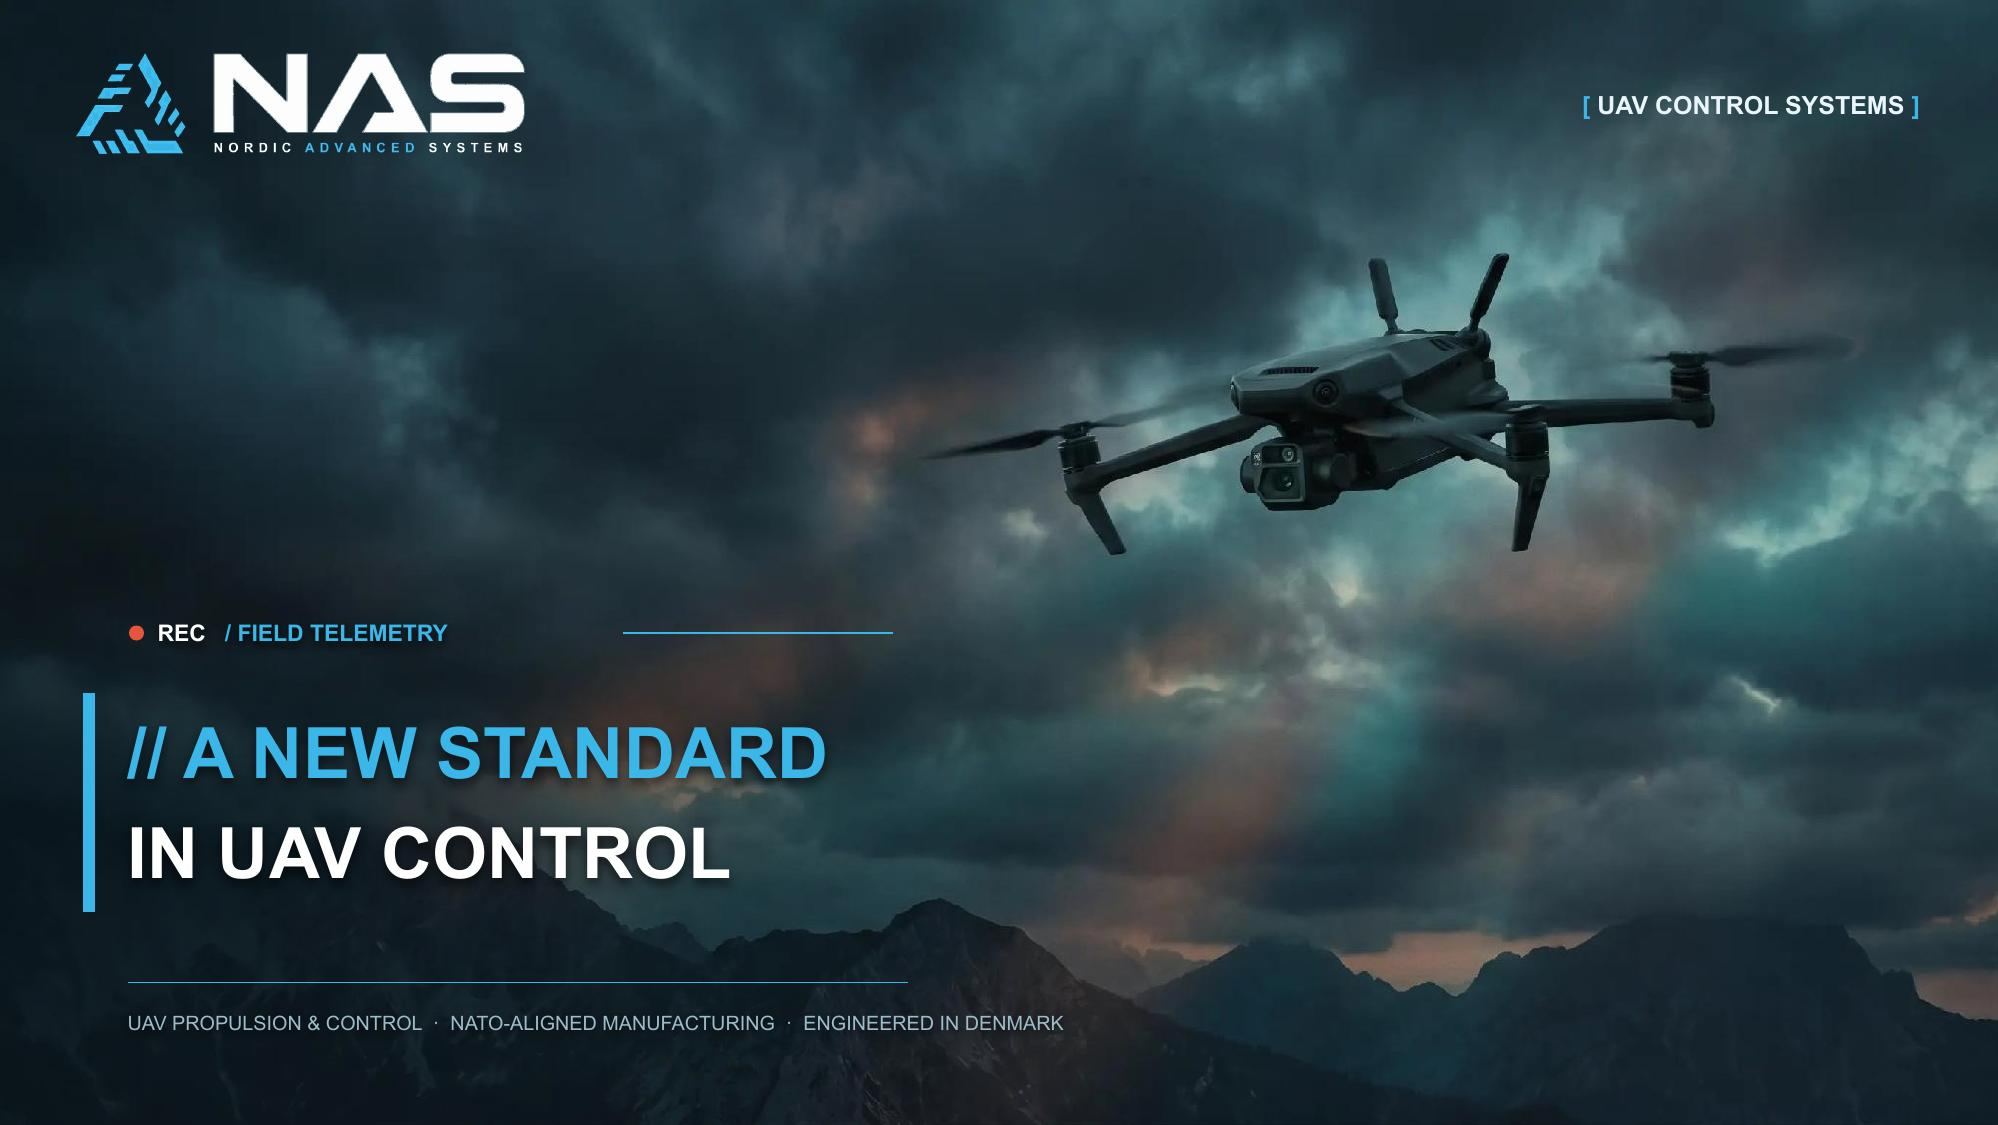
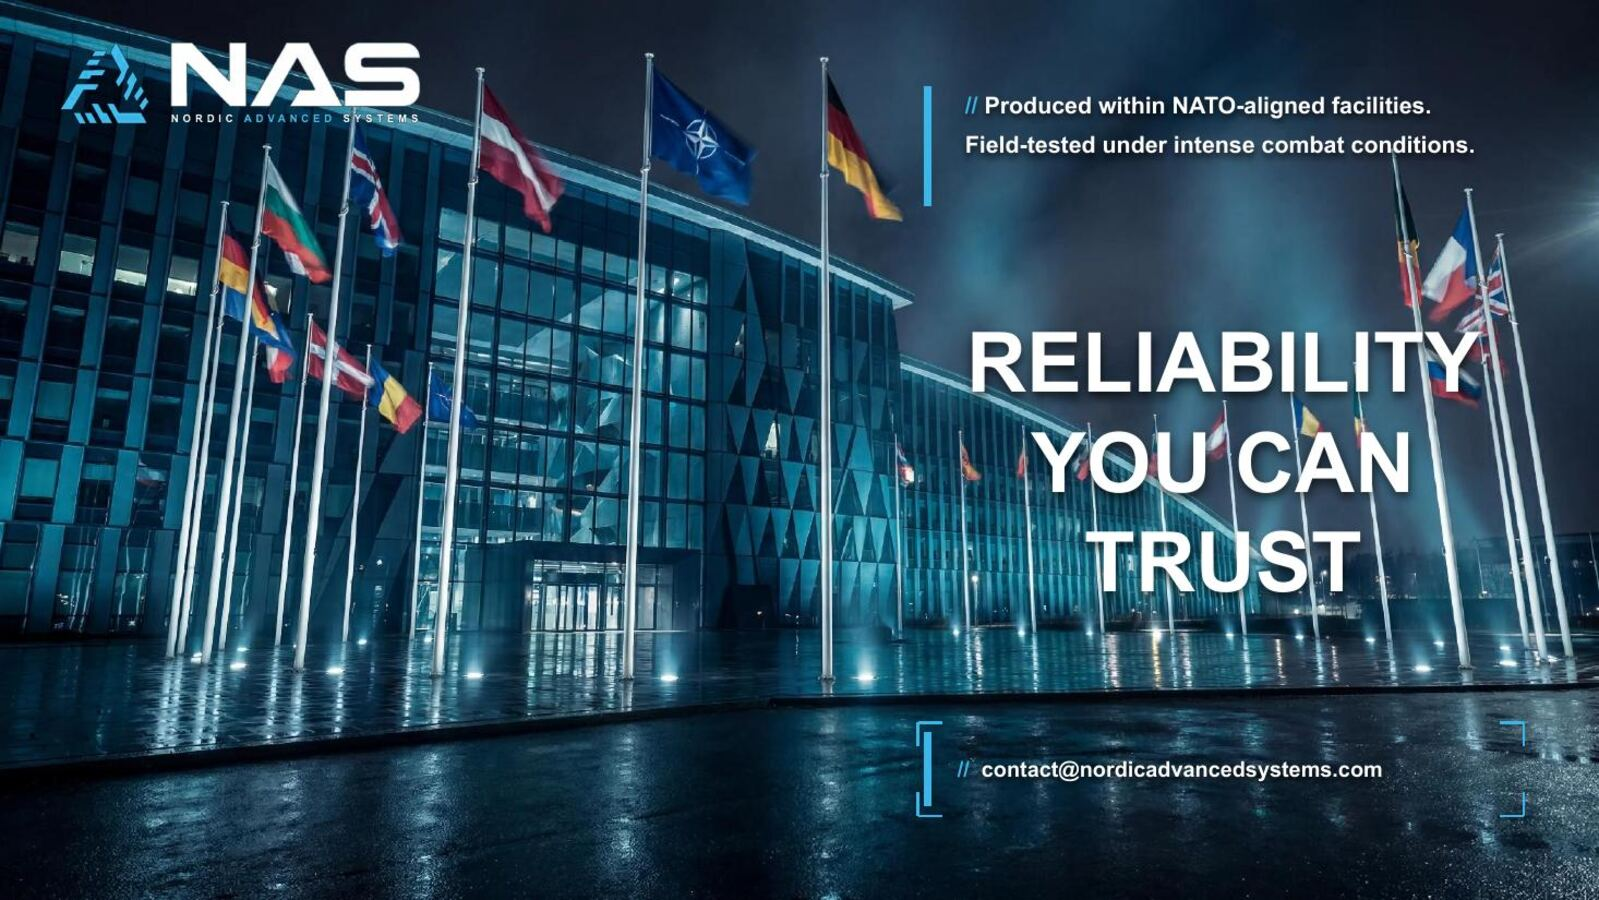
Hero 50/50 layout, scroll-perf fix, scroll-spy + alignment polish
Hero → balanced 50/50 split:
- .hero is a two-column grid (1.05fr 0.95fr, text gets a touch more); the text
  is unwrapped from .container--wide into a real left column, the Three.js
  canvas is pinned to the right (inset: 0 0 0 32%) so the object centres ~66%
  across instead of jammed to the edge. Mobile collapses to one column with the
  fallback image full-bleed again.
- hero3d.js: object centres in its canvas (SUBJECT_OFFSET 0, SUBJECT_DROP 0) and
  is sized for the half-frame (mesh.scale 0.78). Size is set by canvas height +
  FOV, not width, so moving the canvas left doesn't rescale it.
- Headline nudged up from the vertical centre (translateY).

Shared left edge:
- New --hero-indent token drives both the hero headline's left padding and the
  header logo's left padding, so "Nielsen Studio" sits flush above the headline
  (both fall back to --gutter on mobile).

Scroll performance (case sections were janking):
- Dropped the permanent `will-change: transform, opacity` from [data-reveal].
  It pinned a compositor layer (with its image texture) on all 46 reveal
  elements for the whole session — the reveals are once:true, so a permanent
  will-change just cost memory/compositing on the image-heavy case sections.
- Resized nas-control-systems.jpg from 2664x1500 / 459 KB to 1599x900 / 222 KB
  (it's a ~700px-wide thumbnail; 4 MP was decoding-jank on scroll).

Nav scroll-spy:
- Clear the active link when no linked section is in the centre band, instead of
[…]

diff --git a/css/sections.css b/css/sections.css
@@ -9,11 +9,13 @@
    ONE movement reused across the whole site: a weighty fade + short rise.
    Default state set in CSS so content is hidden before GSAP boots (no flash);
    JS adds .is-ready on <html> only when motion is allowed, then animates.
-   If JS/motion is unavailable, the fallback below keeps everything visible.  */
+   If JS/motion is unavailable, the fallback below keeps everything visible.
 
-[data-reveal] {
-  will-change: transform, opacity;
-}
+   NB: no static `will-change` here on purpose. These reveals are once:true, so
+   a permanent will-change would pin a compositor layer (with its image texture)
+   on every [data-reveal] for the whole session — dozens of them — which made
+   the image-heavy case sections jank on scroll. The brief reveal tween doesn't
+   need a pre-promoted layer.                                                  */
 
 html.is-ready [data-reveal] {
   opacity: 0;
@@ -39,7 +41,10 @@ html:not(.is-ready) [data-reveal] {
   align-items: center;
   justify-content: space-between;
   gap: var(--space-m);
-  padding: var(--space-s) var(--gutter);
+  /* Logo's left edge flush with the hero headline (shared --hero-indent); the
+     right keeps the page gutter so the nav stays at the edge. */
+  padding-block: var(--space-s);
+  padding-inline: var(--hero-indent) var(--gutter);
   /* At the top the bar is invisible so the hero reads clean; once the page
      scrolls it condenses into a glassy strip (.is-scrolled, toggled by JS). */
   background: transparent;
@@ -190,6 +195,10 @@ html:not(.is-ready) [data-reveal] {
 
 /* Collapse nav links on small screens; brand + CTA remain (menu added later).*/
 @media (max-width: 48rem) {
+  /* The hero text falls back to the plain gutter here, so match the logo to it. */
+  .site-header {
+    padding-inline: var(--gutter);
+  }
   .site-nav {
     gap: var(--space-s);
   }
@@ -208,6 +217,11 @@ html:not(.is-ready) [data-reveal] {
   box-sizing: border-box;
   min-height: 100svh;
   display: grid;
+  /* Split layout: text fills the left column, the 3D canvas the right half (the
+     canvas is pinned there absolutely — see .hero__canvas). The text column gets
+     a touch more room (1.05 vs 0.95) since the headline is the priority. */
+  grid-template-columns: 1.05fr 0.95fr;
+  gap: var(--gutter);
   align-items: center;
   /* Reserve room for the fixed header so the vertically-centred content never
      tucks under it. With border-box + min-height, this padding lives INSIDE the
@@ -215,6 +229,21 @@ html:not(.is-ready) [data-reveal] {
   padding-block: calc(var(--header-h) + var(--space-s)) var(--space-l);
   overflow: hidden;
   isolation: isolate; /* keep the hero's layers (video → canvas) self-contained */
+}
+
+/* Mobile: single column — the live canvas no-ops here, so the fallback image
+   fills the hero full-bleed again behind the full-width text. */
+@media (max-width: 48rem) {
+  .hero {
+    grid-template-columns: 1fr;
+  }
+  .hero__canvas {
+    inset: 0;
+  }
+  .hero__content {
+    max-width: none;
+    padding-inline: var(--gutter);
+  }
 }
 
 /* --- Smoke background loop ------------------------------------------------
@@ -291,12 +320,15 @@ html:not(.is-ready) [data-reveal] {
   display: none;
 }
 
-/* Three.js canvas mounts here, behind the content, full-bleed.
-   Pushed slightly right so the form sits in the darker left third — the rim-lit
-   material reads in the open space beside the text, not behind it.           */
+/* Three.js canvas mounts here, pinned to the right of the hero. The object
+   centres in this box, so its left edge (38%) sets how far toward the middle
+   the object lands — keeping it off the far-right edge and shrinking the empty
+   middle. Object SIZE is set by canvas height + FOV, not width.
+   Full height so the renderer always has a definite size. (Full-bleed on
+   mobile — see the media query above.)                                       */
 .hero__canvas {
   position: absolute;
-  inset: 0;
+  inset: 0 0 0 32%; /* top right bottom 0, left 32% → object centres ~66% across */
   z-index: 3; /* above the smoke video (0), overlay (1) and scrim (2) */
   /* The injected <canvas> and the fallback <img> both fill this box.         */
 }
@@ -346,12 +378,19 @@ html:not(.is-ready) [data-reveal] {
 .hero__content {
   position: relative;
   z-index: var(--z-raised);
-  /* Anti-center bias: content sits left, asymmetric. Width is wide enough to
-     fit the largest headline word at the display step's max — measured in rem
-     (not ch) so it doesn't shrink with body type. Caps at viewport on phones. */
-  max-width: min(92vw, 33rem);
-  /* No vertical padding — the hero grid centres this block, and its own padding
-     reserves the header space. Extra padding here only risked overflow. */
+  grid-column: 1; /* left half of the 50/50 split */
+  /* Nudge up from the grid's vertical centre — transform so it doesn't shift
+     layout or fight the children's reveal tween. */
+  transform: translateY(-2rem);
+  /* Left edge aligns with the header wordmark — both use var(--gutter) — for one
+     consistent margin down the page. max-width carries the headline toward the
+     centre so there's calm space, not a dead gap, before the object. */
+  max-width: 44rem;
+  /* Set in from the edge so the text doesn't lean against the side; shares
+     --hero-indent with the header logo so the two flush vertically. */
+  padding-inline-start: var(--hero-indent);
+  /* No vertical padding — the hero grid centres this block, and the hero's own
+     padding reserves the header space. */
   padding-block: 0;
 }
 

diff --git a/index.html b/index.html
@@ -120,21 +120,20 @@
            melts into the Studio section below — no hard seam. -->
       <div class="hero__fade-bottom" aria-hidden="true"></div>
 
-      <div class="container container--wide">
-        <div class="hero__content" data-hero-intro data-reveal-stagger>
-          <p class="eyebrow" data-reveal>
-            <span class="eyebrow__index">01</span> / Nielsen Studio
-          </p>
-          <h1 class="hero__title" data-reveal>
-            <!-- One-liner finalised in the hero build step. -->
-            Websites &amp; brand collateral, built to
-            <span class="accent">convert.</span>
-          </h1>
-          <p class="lead" data-reveal>
-            Freelance web design from Aalborg, Denmark — sites, PDFs and decks
-            that work as one system.
-          </p>
-        </div>
+      <!-- Left half of the 50/50 hero grid (the right half is the 3D canvas). -->
+      <div class="hero__content" data-hero-intro data-reveal-stagger>
+        <p class="eyebrow" data-reveal>
+          <span class="eyebrow__index">01</span> / Nielsen Studio
+        </p>
+        <h1 class="hero__title" data-reveal>
+          <!-- One-liner finalised in the hero build step. -->
+          Websites &amp; brand collateral, built to
+          <span class="accent">convert.</span>
+        </h1>
+        <p class="lead" data-reveal>
+          Freelance web design from Aalborg, Denmark — sites, PDFs and decks
+          that work as one system.
+        </p>
       </div>
 
       <!-- Affordance: only meaningful when the live canvas is interactive.

diff --git a/js/hero3d.js b/js/hero3d.js
@@ -77,9 +77,9 @@ function startScene(mount, THREE, OrbitControls, RoomEnvironment) {
   const COLOR_FILL = new THREE.Color(read(css, "--text", "#f4f2ec"));
 
   const sizes = { width: mount.clientWidth, height: mount.clientHeight };
-  // Cap DPR low: the hero canvas is full-bleed, so every device pixel is shaded
-  // with the PBR material EVERY frame. 1.5 stays crisp with antialias on and
-  // roughly halves the fragment load vs 2 on retina — the main lag fix.
+  // Cap DPR low: the hero canvas is large (the hero's right half), so every
+  // device pixel is shaded with the PBR material EVERY frame. 1.5 stays crisp
+  // with antialias on and roughly halves the fragment load vs 2 on retina.
   const MAX_DPR = 1.5;
   const dpr = Math.min(window.devicePixelRatio || 1, MAX_DPR);
 
@@ -120,17 +120,13 @@ function startScene(mount, THREE, OrbitControls, RoomEnvironment) {
   camera.position.set(0, 0, 6.4);
   scene.add(camera);
 
-  // Push the subject into the right of the canvas so the headline keeps clean
-  // dark space on the left. We render our canvas as the LEFT window of a wider
-  // virtual frame; the centred, in-place-spinning object then lands right-of-
-  // centre, undistorted, and never swings off-screen (the orbit is centred on
-  // the object, not on screen centre). SUBJECT_OFFSET widens the virtual frame.
-  const SUBJECT_OFFSET = 0.30; // 0 = centred · larger = further right
-  // Drop the subject a touch below centre so its top clears the fixed header and
-  // it sits more in the middle of the hero. Pure framing (negative vertical view
-  // offset) — it shifts where the object lands without changing its size or the
-  // orbit pivot, so drag-to-rotate still feels natural.
-  const SUBJECT_DROP = 0.06; // fraction of canvas height to lower the subject
+  // The canvas now occupies the hero's RIGHT HALF (see .hero__canvas in CSS),
+  // so the object just centres in its own canvas — no horizontal offset needed.
+  // (Kept as a knob: >0 would push it further right within the half.)
+  const SUBJECT_OFFSET = 0; // 0 = centred in the canvas · larger = further right
+  // Centred vertically so it lines up with the text block's vertical middle.
+  // (Knob kept: >0 would lower the subject within the canvas.)
+  const SUBJECT_DROP = 0.0; // fraction of canvas height to lower the subject
   function frameCamera() {
     const fullW = sizes.width * (1 + SUBJECT_OFFSET);
     const fullH = sizes.height;
@@ -159,7 +155,8 @@ function startScene(mount, THREE, OrbitControls, RoomEnvironment) {
     envMapIntensity: 1.1, // let the RoomEnvironment reflections carry the form
   });
   const mesh = new THREE.Mesh(geometry, material);
-  mesh.scale.setScalar(0.79); // a touch more presence, still fully inside the hero
+  // Balanced in its half with calm space beside the text.
+  mesh.scale.setScalar(0.78);
   scene.add(mesh);
 
   // --- Lighting ----------------------------------------------------------

diff --git a/js/nav.js b/js/nav.js
@@ -26,11 +26,26 @@ export function initNav() {
     navLinks.forEach((l) => l.classList.toggle("is-active", l === link));
   }
 
+  // Track which linked sections are currently in the central band and recompute
+  // on every change. Marking active only on isIntersecting left the last link
+  // stuck lit after you scrolled back above it (up into the hero/Studio, which
+  // have no link). Instead: highlight the first linked section in the band, or
+  // clear everything when none is — so nothing is highlighted at the top.
+  const inBand = new Set();
   const observer = new IntersectionObserver(
     (entries) => {
       entries.forEach((entry) => {
-        if (entry.isIntersecting) setActive(linkFor.get(entry.target.id));
+        if (entry.isIntersecting) inBand.add(entry.target.id);
+        else inBand.delete(entry.target.id);
       });
+      let current = null;
+      for (const [id, link] of linkFor) {
+        if (inBand.has(id)) {
+          current = link;
+          break;
+        }
+      }
+      setActive(current); // null clears all links
     },
     // Active = the section occupying the central ~10% band of the viewport.
     { rootMargin: "-45% 0px -45% 0px", threshold: 0 }

diff --git a/css/tokens.css b/css/tokens.css
@@ -70,6 +70,7 @@
   --container:      72rem;  /* ~1152px max content width                     */
   --container-wide: 84rem;  /* wider band for hero / full-bleed work          */
   --gutter:         clamp(1.25rem, 0.80rem + 2.25vw, 2.50rem); /* page edges  */
+  --hero-indent:    clamp(var(--space-l), 6vw, 7rem); /* shared left edge: hero headline + header logo */
   --radius:         4px;    /* restrained — sharp, editorial                  */
   --radius-lg:      10px;
 